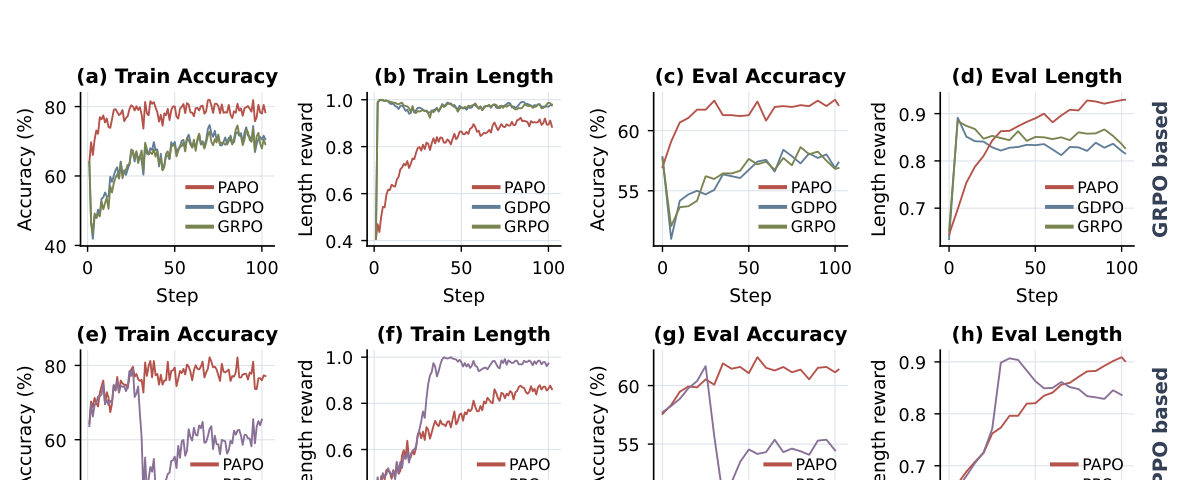
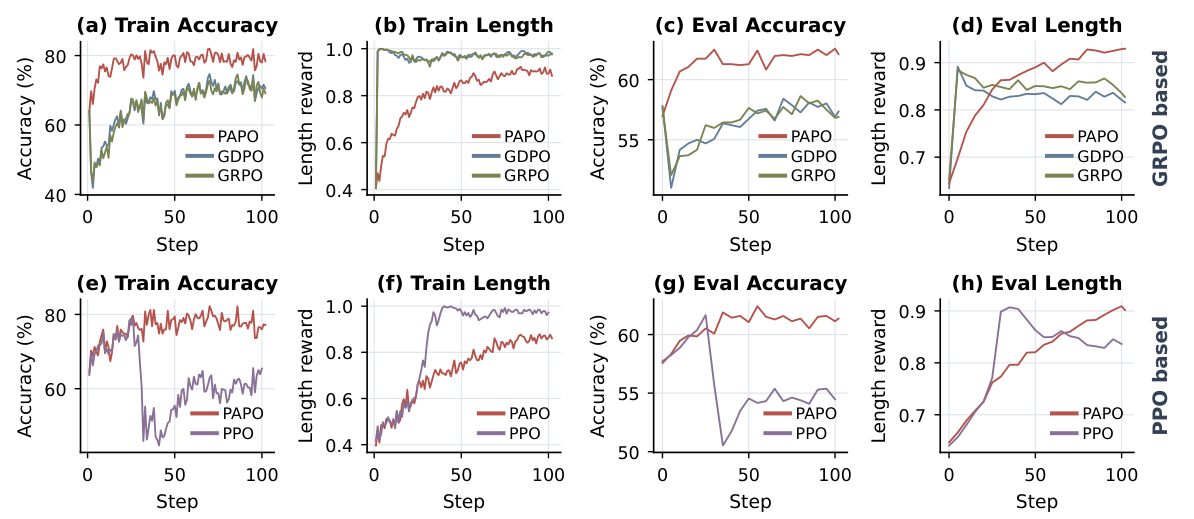
Keep full training curves and axes visible

diff --git a/papo-project/index.html b/papo-project/index.html
@@ -13,7 +13,7 @@
 <section class="content" id="method"><p class="eyebrow">02 / METHOD</p><h2>Preserve agreement. Bound conflict.</h2><p>PAPO estimates objective-specific advantages before combining them. Aligned signals add together; conflicting auxiliary signals are smoothly bounded relative to the primary advantage.</p><figure><a href="static/images/method.png"><img loading="lazy" src="static/images/method.png" width="1194" height="450" alt="PAPO architecture: sequence-level advantage aggregation for GRPO and a multi-head critic with token-level aggregation for PPO"></a><figcaption><strong>One fusion rule, two optimization families.</strong> GRPO combines sequence-level advantages. PPO uses objective-specific value heads and GAE before token-level fusion. Figure 2 from the paper.</figcaption></figure><div class="two-col"><article><h3>Sequence-level GRPO</h3><p>Independently normalize each objective within the rollout group, fuse primary and auxiliary advantages, then normalize the fused group before optimization.</p></article><article><h3>Token-level PPO</h3><p>Use a multi-head critic to estimate each objective’s return. Compute GAE separately and apply PAPO at each token, keeping critic targets unfused.</p></article></div>
 <div class="demo"><div><p class="eyebrow">INTERACTIVE EXAMPLE</p><h3>Try conflicting reward signals</h3><p>Move the auxiliary advantage to see when additive fusion changes direction.</p></div><div class="controls"><label for="primary">Primary advantage <output id="primary-value">0.60</output></label><input id="primary" type="range" min="-1" max="1" step="0.05" value="0.6"><label for="auxiliary">Auxiliary advantage <output id="auxiliary-value">-1.20</output></label><input id="auxiliary" type="range" min="-2" max="2" step="0.05" value="-1.2"></div><div class="demo-results" aria-live="polite"><div>Additive fusion<strong id="additive"></strong><span id="additive-status"></span></div><div>PAPO fusion<strong id="papo"></strong><span id="papo-status"></span></div></div><p class="note">Illustrative fusion with α = 1, before any subsequent group normalization. This is an advantage-level demonstration, not a training simulation. At zero primary advantage, the aligned branch uses the auxiliary signal.</p></div></section>
 <section class="tinted" id="results"><div class="content"><p class="eyebrow">03 / EXPERIMENTS</p><h2>Better task performance.<br>Strong auxiliary behavior.</h2><p>Qwen3-8B results on mathematical reasoning and agentic tool use. All values below are taken from Tables 1 and 2 of the paper.</p><div class="highlights"><article><strong>62.1<span>%</span></strong><p>Math accuracy · GRPO-based PAPO<br><b>+5.2 pp</b> over GRPO</p></article><article><strong>93.0<span>%</span></strong><p>Math length compliance<br>GRPO-based PAPO</p></article><article><strong>89.93<span>%</span></strong><p>Tool-use accuracy · GRPO-based PAPO<br><b>0.33</b> average tool calls, matching GRPO</p></article></div><div class="tabs" role="tablist" aria-label="Evaluation domain"><button role="tab" id="math-tab" aria-selected="true" aria-controls="result-panel" data-domain="math">Mathematical reasoning</button><button role="tab" id="tools-tab" aria-selected="false" aria-controls="result-panel" data-domain="tools" tabindex="-1">Agentic tool use</button></div><div id="result-panel" role="tabpanel" aria-labelledby="math-tab" tabindex="0"><div class="table-scroll"><table id="results-table"><caption>Overall mathematical reasoning performance</caption><thead><tr><th scope="col">Method</th><th scope="col">Optimization</th><th scope="col">Accuracy (%) ↑</th><th scope="col" id="aux-heading">Length compliance (%) ↑</th></tr></thead><tbody></tbody></table></div><p id="table-note" class="note"></p></div><p class="note">PAPO is highlighted within each optimization family. Auxiliary performance is not uniformly best: for tool use, PPO-based PAPO uses 0.56 calls versus PPO’s 0.37, with higher accuracy (88.25% versus 86.25%).</p></div></section>
-<section class="content"><p class="eyebrow">04 / TRAINING DYNAMICS</p><h2>Learning both objectives together</h2><p>The paper’s training curves show PAPO improving the auxiliary length objective while maintaining stronger primary-task accuracy across GRPO- and PPO-based optimization.</p><figure><a href="static/images/training-dynamics.png"><img loading="lazy" src="static/images/training-dynamics.png" width="1194" height="480" alt="Training and evaluation accuracy and length reward over optimization steps for PAPO and baseline methods"></a><figcaption>Figure 3 from the paper. GRPO-based training appears on the top row and PPO-based training on the bottom row.</figcaption></figure></section>
+<section class="content"><p class="eyebrow">04 / TRAINING DYNAMICS</p><h2>Learning both objectives together</h2><p>The paper’s training curves show PAPO improving the auxiliary length objective while maintaining stronger primary-task accuracy across GRPO- and PPO-based optimization.</p><figure><a href="static/images/training-dynamics.png"><img loading="lazy" src="static/images/training-dynamics.png" width="1194" height="519" alt="Training and evaluation accuracy and length reward over optimization steps for PAPO and baseline methods"></a><figcaption>Figure 3 from the paper. GRPO-based training appears on the top row and PPO-based training on the bottom row.</figcaption></figure></section>
 <section class="tinted"><div class="narrow"><div class="citation-head"><h2>BibTeX</h2><button class="copy" id="copy-bib" type="button">Copy citation</button></div><pre><code id="bibtex">@misc{yuan2026advantage,
   title={Advantage Aggregation with Priority for Multi-Reward Policy Optimization},
   author={Yuan, Xiangchi and Diao, Xingjian and Liu, Zheyuan and Zhang, Chunhui and Shi, Dachuan and Xia, Kejing and Du, Zhenbang and Yao, Shenglong and Vosoughi, Soroush and Lee, Wenke},
